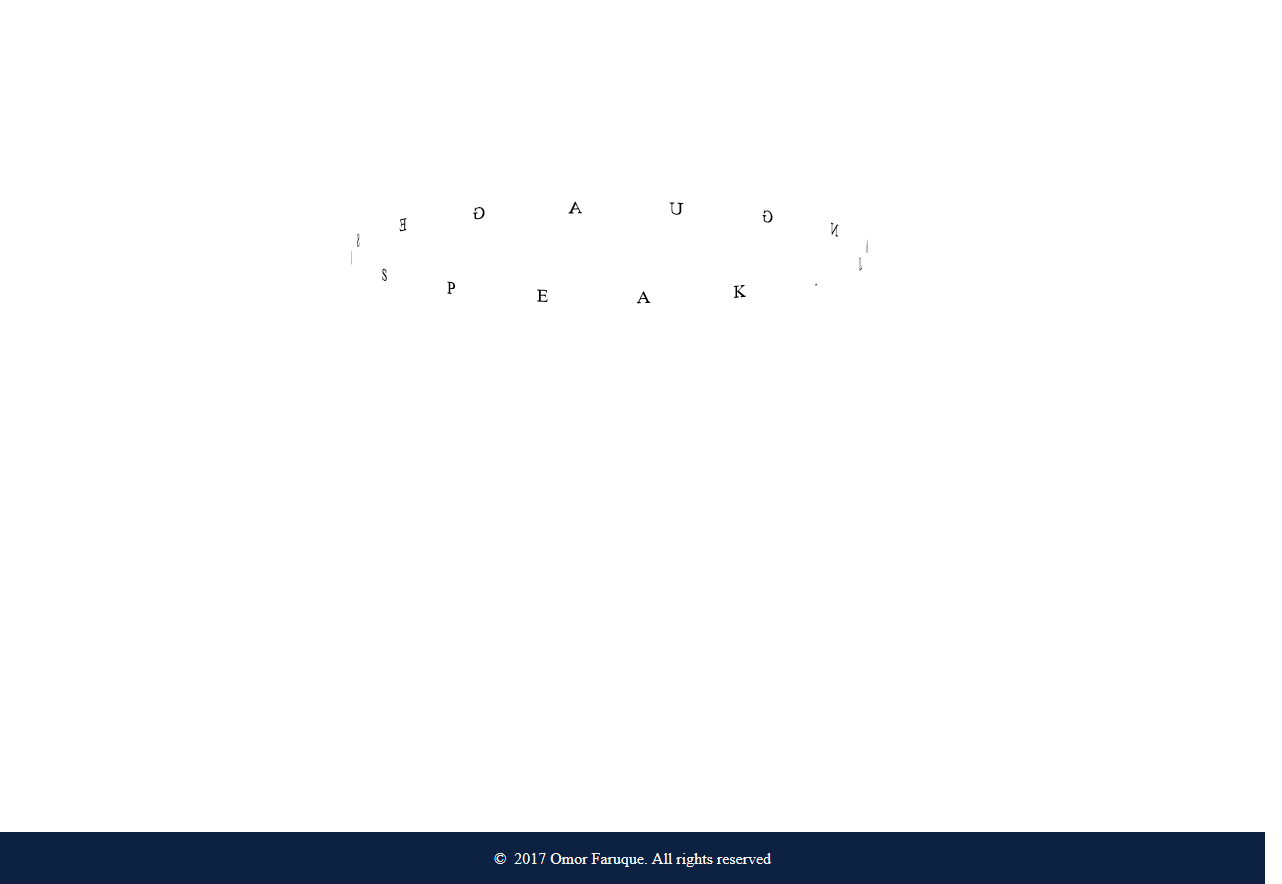
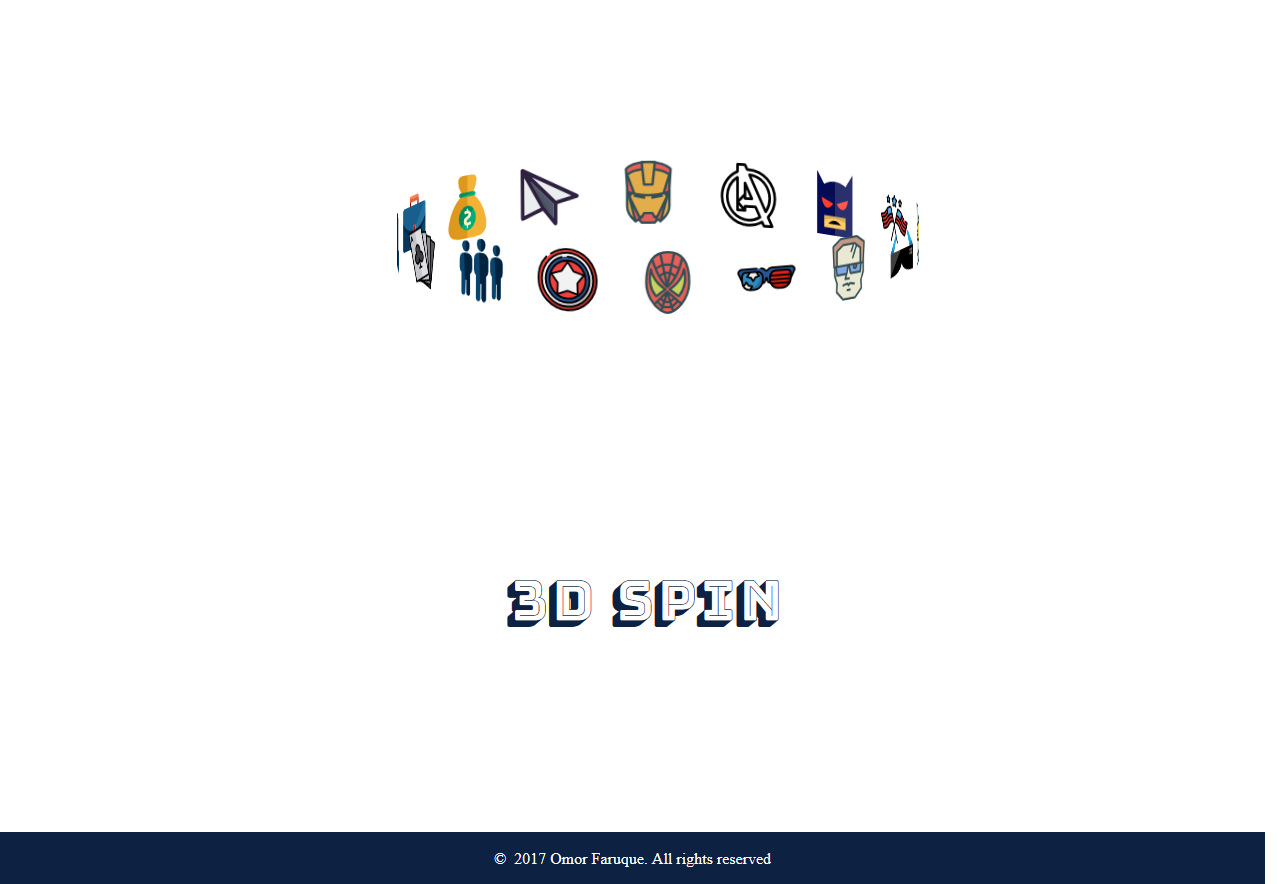
added the code page v11

Changed region(s): [[0.312, 0.1833, 0.7176, 0.3665], [0.3744, 0.6414, 0.624, 0.733]]

diff --git a/codes/3dSpin/styles.css b/codes/3dSpin/styles.css
@@ -1,110 +1,124 @@
+
+
+
+
+
 body,html{
-    height: 100%;
-    margin: 0;
+  height: 100%;
+  margin: 0;
 }
 
 
 
 
-  /*Code for spining*/
-  ul.spin{
-    margin-top: 20%;
-    list-style: none;
-    font-size: 1.5vw;
-    transform-style: preserve-3d;
-    animation: three-dimensions-circle 30s linear infinite;
-  }
+/*Code for spining*/
+ul.spin{
+ 
+  margin-top: 20%;
+  list-style: none;
+  font-size: 30px;
+  transform-style: preserve-3d;
+  animation: three-dimensions-circle 30s linear infinite;
 
-  .spin li{
-    position: absolute;
-    top: 50%;
-    left: 50%;
-    color: black;
-  }
+}
+
+.spin li{
+  position: absolute;
+  top: 50%;
+  left: 50%;
+  color: black;
+
+}
 
 
 
 
 .spin li:nth-child(1){
-    transform: translate(-50%,50%) rotate(0deg) translateY(-260px) rotateX(90deg);
+  transform: translate(-50%,50%) rotate(0deg) translateY(-260px) rotateX(90deg);
 }
 .spin li:nth-child(2){
-  transform: translate(-50%,50%) rotate(22.5deg) translateY(-260px) rotateX(90deg);
+transform: translate(-50%,50%) rotate(22.5deg) translateY(-260px) rotateX(90deg);
 }
 .spin li:nth-child(3){
-  transform: translate(-50%,50%) rotate(45deg) translateY(-260px) rotateX(90deg);
+transform: translate(-50%,50%) rotate(45deg) translateY(-260px) rotateX(90deg);
 }
 .spin li:nth-child(4){
-  transform: translate(-50%,50%) rotate(67.5deg) translateY(-260px) rotateX(90deg);
+transform: translate(-50%,50%) rotate(67.5deg) translateY(-260px) rotateX(90deg);
 }
 .spin li:nth-child(5){
-  transform: translate(-50%,50%) rotate(90deg) translateY(-260px) rotateX(90deg);
+transform: translate(-50%,50%) rotate(90deg) translateY(-260px) rotateX(90deg);
 }
 .spin li:nth-child(6){
-  transform: translate(-50%,50%) rotate(112.5deg) translateY(-260px) rotateX(90deg);
+transform: translate(-50%,50%) rotate(112.5deg) translateY(-260px) rotateX(90deg);
 }
 .spin li:nth-child(7){
-  transform: translate(-50%,50%) rotate(135deg) translateY(-260px) rotateX(90deg);
+transform: translate(-50%,50%) rotate(135deg) translateY(-260px) rotateX(90deg);
 }
 .spin li:nth-child(8){
-  transform: translate(-50%,50%) rotate(157.5deg) translateY(-260px) rotateX(90deg);
+transform: translate(-50%,50%) rotate(157.5deg) translateY(-260px) rotateX(90deg);
 }
 .spin li:nth-child(9){
-  transform: translate(-50%,50%) rotate(180deg) translateY(-260px) rotateX(90deg);
+transform: translate(-50%,50%) rotate(180deg) translateY(-260px) rotateX(90deg);
 }
 .spin li:nth-child(10){
-  transform: translate(-50%,50%) rotate(202.5deg) translateY(-260px) rotateX(90deg);
+transform: translate(-50%,50%) rotate(202.5deg) translateY(-260px) rotateX(90deg);
 }
 .spin li:nth-child(11){
-  transform: translate(-50%,50%) rotate(225deg) translateY(-260px) rotateX(90deg);
+transform: translate(-50%,50%) rotate(225deg) translateY(-260px) rotateX(90deg);
 }
 .spin li:nth-child(12){
-  transform: translate(-50%,50%) rotate(247.5deg) translateY(-260px) rotateX(90deg);
+transform: translate(-50%,50%) rotate(247.5deg) translateY(-260px) rotateX(90deg);
 }
 
 .spin li:nth-child(13){
-  transform: translate(-50%,50%) rotate(270deg) translateY(-260px) rotateX(90deg);
+transform: translate(-50%,50%) rotate(270deg) translateY(-260px) rotateX(90deg);
 }
 .spin li:nth-child(14){
-  transform: translate(-50%,50%) rotate(292.5deg) translateY(-260px) rotateX(90deg);
+transform: translate(-50%,50%) rotate(292.5deg) translateY(-260px) rotateX(90deg);
 }
 .spin li:nth-child(15){
-  transform: translate(-50%,50%) rotate(315deg) translateY(-260px) rotateX(90deg);
+transform: translate(-50%,50%) rotate(315deg) translateY(-260px) rotateX(90deg);
 }
 .spin li:nth-child(16){
-  transform: translate(-50%,50%) rotate(337.5deg) translateY(-260px) rotateX(90deg);
+transform: translate(-50%,50%) rotate(337.5deg) translateY(-260px) rotateX(90deg);
 }
 
 
 
 /*
- * rotate(50deg) means rotate that element 50 deg on its place
- * rotatex(50deg) means rotate that element in the x rotational axis.element should rotate
- * around x axis
- */
-  
+* rotate(50deg) means rotate that element 50 deg on its place
+* rotatex(50deg) means rotate that element in the x rotational axis.element should rotate
+* around x axis
+*/
+
 @keyframes three-dimensions-circle {
-    0%{
-        transform: rotateX(-100deg) rotate(0);
-    }
-    100%{
-        transform: rotateX(-100deg) rotate(-360deg);
-    }  
+  0%{
+      transform: rotateX(-100deg) rotate(0);
+  }
+  100%{
+      transform: rotateX(-100deg) rotate(-360deg);
+  }  
 }
 
 
 .footer{
-    position: fixed;
-    bottom: 0;
-    background: #0d2142;
-    width: 100%;
-    color: white;
+  position: fixed;
+  bottom: 0;
+  background: #0d2142;
+  width: 100%;
+  color: white;
 }
 
 
 
-
-
-
+.spin-text{
+  position: absolute;
+  top: 60%;
+  left: 40%;
+  color: #0d2142;
+  font-family: 'Bungee Shade',serif;
+  font-size: 55px;
+  
+}
 
 

diff --git a/codes/3dSpin/3dSpin.html b/codes/3dSpin/3dSpin.html
@@ -1,37 +1,42 @@
+ 
 <!DOCTYPE html>
 <html>
 
 <head>
         <link rel="stylesheet" type="text/css" href="styles.css">
+        <link rel="stylesheet" href="https://fonts.googleapis.com/css?family=Lobster|Bungee|Bungee Shade|Roboto Slab|Merriweather|Faster One" />
         <script src="spin.js"></script>
 </head>
 
 <body>
 
-        <div>
-                <ul class="spin margin-spin">
-                        <li>L</li>
-                        <li>A</li>
-                        <li>N</li>
-                        <li>G</li>
-                        <li>U</li>
-                        <li>A</li>
-                        <li>G</li>
-                        <li>E</li>
-                        <li>S</li>
-                        <li>I</li>
-                        <li>S</li>
-                        <li>P</li>
-                        <li>E</li>
-                        <li>A</li>
-                        <li>K</li>
-                        <li>.</li>
+        <div style=" position:relative;">
+                <ul class="spin">
+                        <li><img src="ic1.png" /></li>
+                        <li><img src="ic2.png" /></li>
+                        <li><img src="ic3.png" /></li>
+                        <li><img src="ic4.png" /></li>
+                        <li><img src="ic5.png" /></li>
+                        <li><img src="ic6.png" /></li>
+                        <li><img src="ic7.png" /></li>
+                        <li><img src="ic8.png" /></li>
+                        <li><img src="ic9.png" /></li>
+                        <li><img src="ic10.png" /></li>
+                        <li><img src="ic11.png" /></li>
+                        <li><img src="ic12.png" /></li>
+                        <li><img src="ic13.png" /></li>
+                        <li><img src="ic14.png" /></li>
+                        <li><img src="ic15.png" /></li>
+                        <li><img src="ic16.png" /></li>
                 </ul>
         </div>
+        
         <div class="footer">
                 <p style="text-align:center"> &copy;&nbsp;
                         <span id="date">Date</span> Omor Faruque. All rights reserved</p>
         </div>
+
+        <div class="spin-text"> 3d SPIN</div>
 
 
 </body>

diff --git a/codes.html b/codes.html
@@ -114,14 +114,9 @@
                                                 </a>
                                         </div>
                                 </div>
-                                <div class="col-xs-12 col-sm-6 col-md-3">
-                                        <div class="thumbnail">
-                                                <a href="codes/CircleSkilldesign/skillMeter.html" target="_blank">
-                                                        <img src="images/code2.png" alt="Lights" style="width:100%;border:1px solid black">
-                                                        <div class="go-link">SKILL METER</div>
-                                                </a>
-                                        </div>
-                                </div>
+								
+                                
+								
                                 <div class="col-xs-12 col-sm-6 col-md-3">
                                         <div class="thumbnail">
                                                 <a href="codes/3dSpin/3dSpin.html" target="_blank">
@@ -130,6 +125,16 @@
                                                 </a>
                                         </div>
                                 </div>
+								
+								<div class="col-xs-12 col-sm-6 col-md-3">
+                                        <div class="thumbnail">
+                                                <a href="codes/CircleSkilldesign/skillMeter.html" target="_blank">
+                                                        <img src="images/code2.png" alt="Lights" style="width:100%;border:1px solid black">
+                                                        <div class="go-link">SKILL METER</div>
+                                                </a>
+                                        </div>
+                                </div>
+								
                                 <div class="col-xs-12 col-sm-6 col-md-3">
                                         <div class="thumbnail">
                                                 <a href="#">
